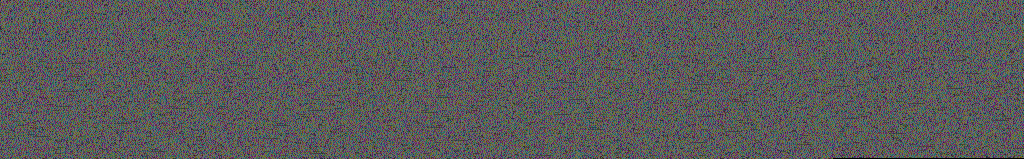
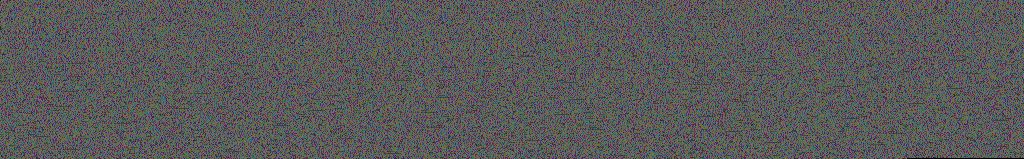
Grão-Pastor: pedido do agarrão sem cajado duplicado (um cajado só, na mão de trás)
Claude-Session: https://claude.ai/code/session_019UDbB39AQatLch2J2yXiZt

Changed region(s): [[0.0, 0.8553, 1.0, 1.0]]

diff --git a/ferramentas/folhas_gbzin.py b/ferramentas/folhas_gbzin.py
@@ -174,7 +174,7 @@ FOLHAS_GP = {
     "queda_bode": 'Goat Fall: 1 deep crouch, 2 he jumps very high and forward, 3 and 4 at the top of the jump, knees tucked, the cape spread, 5 he falls hooves first, 6 the hooves hit the ground hard, crouched low, 7 he rises, 8 stance. (The cracks are a separate effect.)',
     "golaco": 'super move Hell Herd pose: 1 stance, 2 and 3 he raises the bone crook high over his head, his eye blazing, 4 and 5 he slams the crook down and points forward commanding a stampede, 6 and 7 he holds the pose with the cape blown back as if a huge herd runs past him, 8 stance. (The giant shadow goat and the herd are separate effects.)',
     "juizo": 'super move Judgment of the Herd: 1 stance, 2 he leaps forward, 3 he lands behind an invisible opponent and locks a rear choke, 4 he squeezes, lifting the opponent, 5 he squeezes harder, horns lowered, 6 he drops sitting with the choke locked, 7 he hits the floor three times with the bone crook, 8 he stands in stance. No second person is shown.',
-    "agarrao": 'the awakened standing grab, always facing right, each blow with a wind-up and a clear contact, huge and brutal: 1 the front hand grabs an invisible opponent by the throat at head height (the grab), 2 he lifts him high off the ground with one arm, 3 wind-up: the crook rises behind, 4 contact: a crook blow at chest height, 5 wind-up again, 6 contact: a horn butt at face height, 7 he slams the invisible opponent down to the floor in front of him (the throw, straight down), 8 he stands over him, stance. No second person is shown.',
+    "agarrao": 'the awakened standing grab, always facing right, each blow with a wind-up and a clear contact, huge and brutal: ONE crook only, always in the BACK hand (never a second crook, the front hand never holds it). 1 the front hand grabs an invisible opponent by the throat at head height (the grab), 2 he lifts him high off the ground with the front arm, the front fist stays up holding the throat until frame 6, 3 wind-up: the back hand raises the crook behind his head, 4 contact: the back hand swings the crook at chest height of the held opponent, 5 wind-up again, 6 contact: a horn butt at face height, 7 he slams the invisible opponent down to the floor in front of him (the throw, straight down), 8 he stands over him, stance. No second person is shown.',
     "montada": 'the awakened crouch grab, always facing right, each blow with a wind-up and a clear contact: 1 he dives low and pins an invisible opponent to the floor with one hoof (the grab), 2 he stands on him, 3 wind-up: he raises the bone crook high, 4 contact: the crook smashes down to floor level, 5 wind-up again, 6 contact: a second smash, 7 he stomps the hoof down hard, 8 stance. No second person is shown.',
     "ordenha": 'the awakened command grab Embrace of the Hands, always facing right (the giant green hands are a separate effect, here only his gestures): 1 he reaches both open hands far forward, 2 he closes both fists as if catching someone far away, 3 he pulls both fists to his chest, 4 he squeezes both fists together in front of his chest, trembling, 5 wind-up: he lowers his head with the horns forward, 6 contact: a horn butt forward at chest height, 7 he throws both arms forward and open (the throw, a clear forward direction), 8 stance. No second person is shown.',
     "provoca": 'a taunt: 1 stance, 2 and 3 he checks the big gold watch, 4 to 6 he waves the opponent in with two fingers, 7 and 8 he strokes one of his horns, smiling coldly.',
